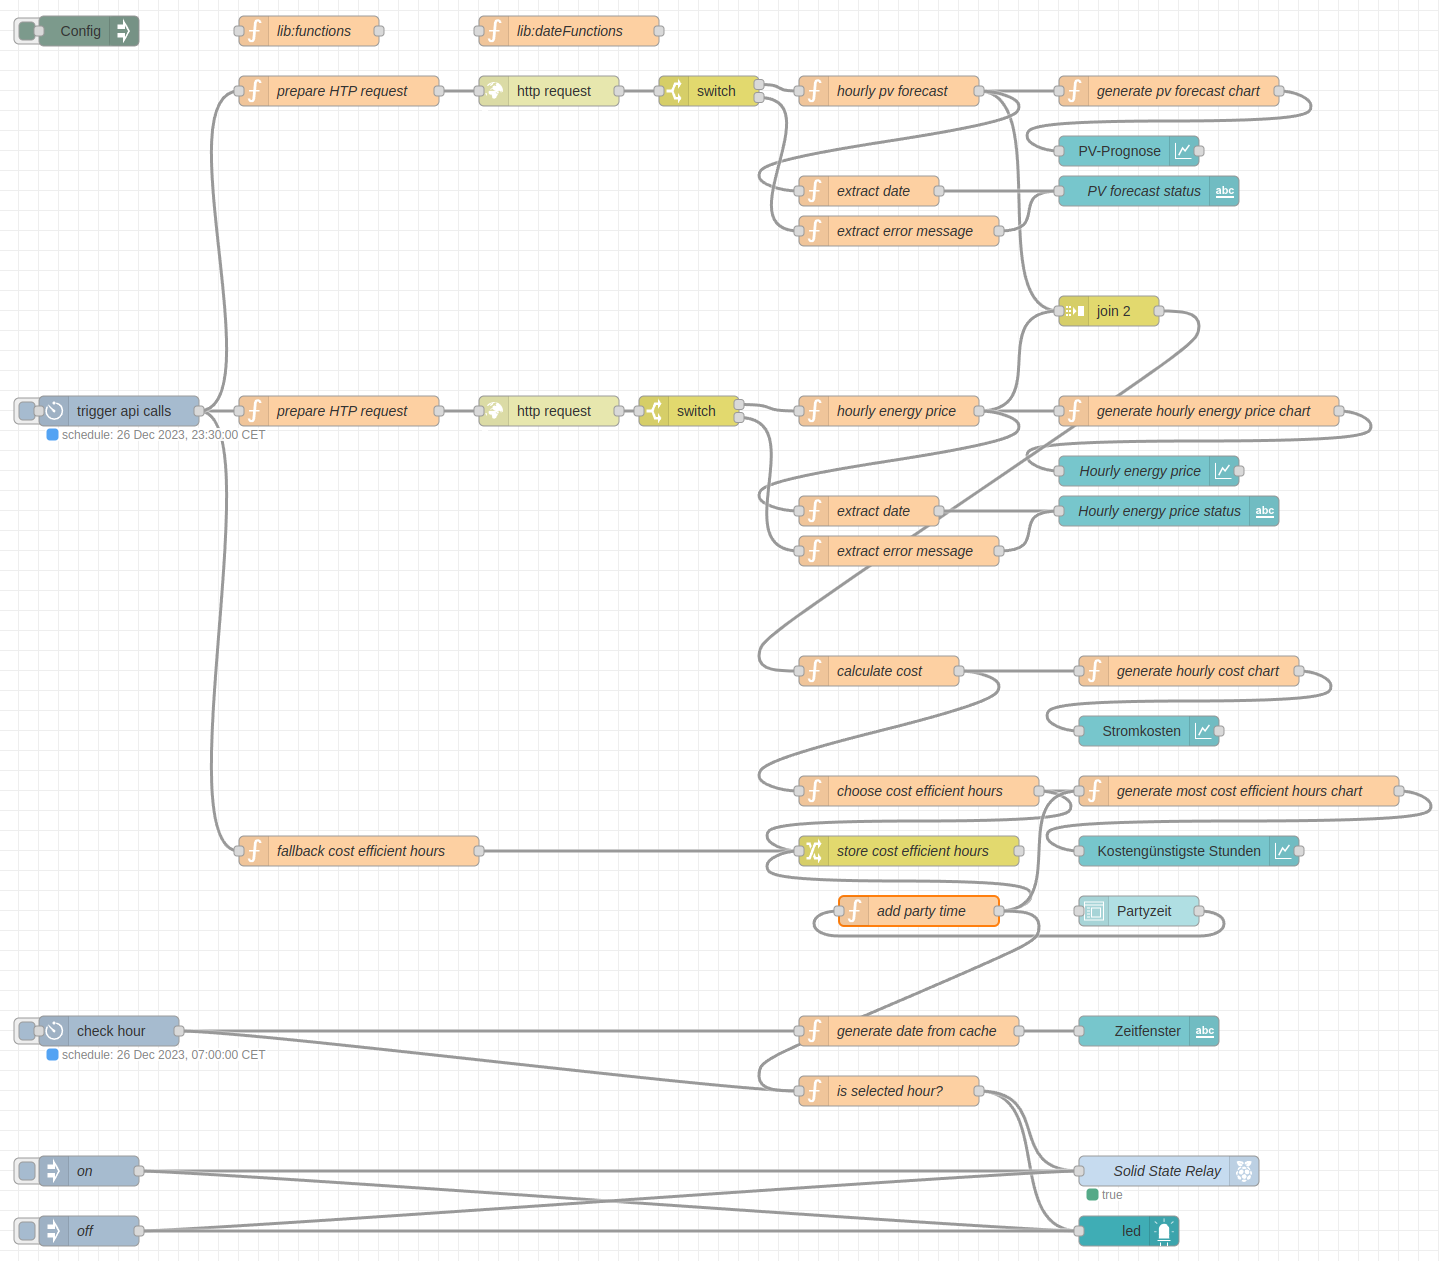
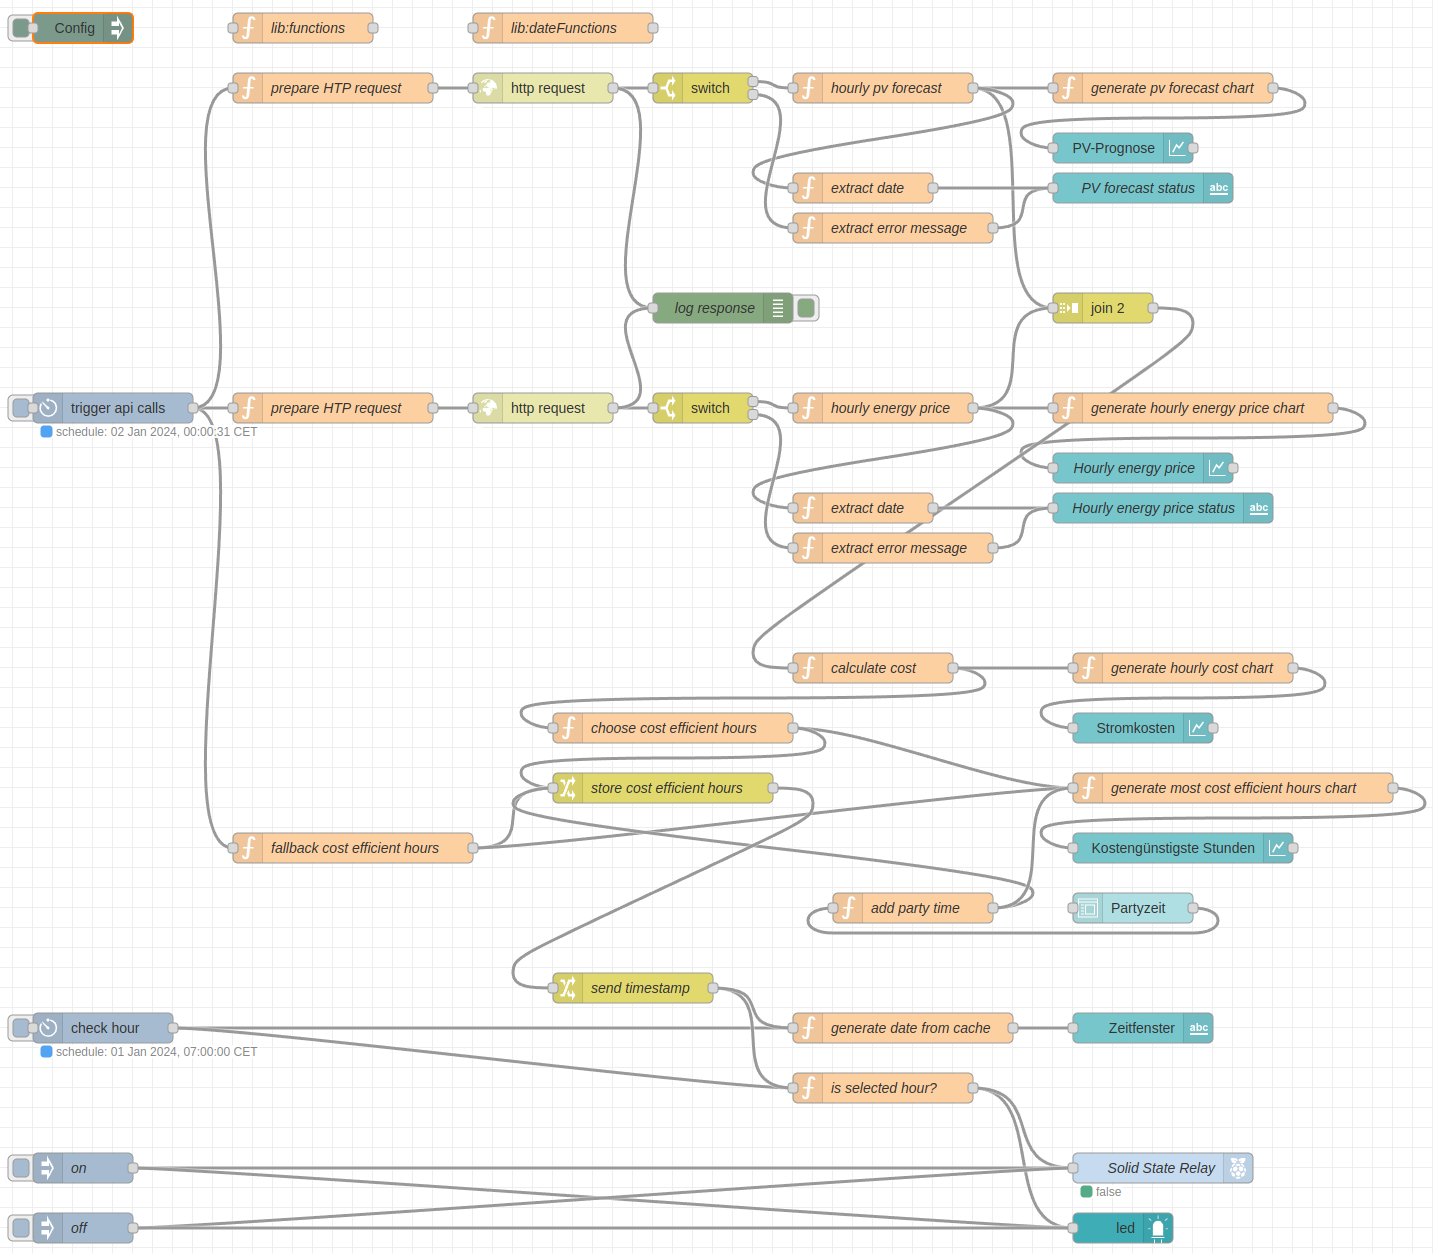
Running API request AFTER midnight in order to be able to run it manually for the current day Improved handling for Partyzeit

diff --git a/flow.md b/flow.md
@@ -2,15 +2,15 @@
 Der folgende Abbildung des Flows repräsentiert den Inhalt der Datei [flow.json](flow.json) hier im Repository.
 ![Flow](flow.png)
 
-Der Flow besteht im wesentlichen aus sechs Teilen, wobei Teil 1 bis 4 täglich um 23:30 Uhr ausgeführt werden:
+Der Flow besteht im wesentlichen aus sechs Teilen, wobei Teil 1 bis 4 täglich direkt nach Mittnacht (00:00:31 Uhr) ausgeführt werden:
 
 - **Teil 1** beinhaltet die Abfrage der PV-Prognose
   ![Flow1](flow1.png)
-- **Teil 2** beinhaltet die Abfrage der Strompreise für den Folgetag
+- **Teil 2** beinhaltet die Abfrage der Strompreise
   ![Flow2](flow2.png)
-- **Teil 3** berechnet aus diesen Daten die stündlichen Kosten für den Betrieb der Wärmepumpe am Folgetag
+- **Teil 3** berechnet aus diesen Daten die stündlichen Kosten für den Betrieb der Wärmepumpe
   ![Flow3](flow3.png)
 - **Teil 4** setzt Standard-Werte für die kostengünstigsten Stunden, für den Fall, dass die Abfrage der PV-Prognose und/oder die Abfrage der Strompreise nicht erfolgreich sind
   ![Flow4](flow4.png)
-- **Teil 5** erlaubt das Hinzufügen eines Stundenbereichs zu den bereits als kostengünstig klassifizierten Stunden des aktuellen Tages. Das entspricht der Partyzeit-Funktion bei vielen Heizungssteuerungen. ![Flow5](flow5.png)
+- **Teil 5** erlaubt das Hinzufügen eines Stundenbereichs zu den bereits als kostengünstig klassifizierten Stunden. Das entspricht der Partyzeit-Funktion bei vielen Heizungssteuerungen. ![Flow5](flow5.png)
 - **Teil 6** führt zu jeder vollen Stunde die Prüfung durch, ob die aktuelle Stunde als kostengünstig klassifiziert ist und aktualisiert den Schaltzustand des Solid-State-Relays     ![Flow6](flow6.png)
